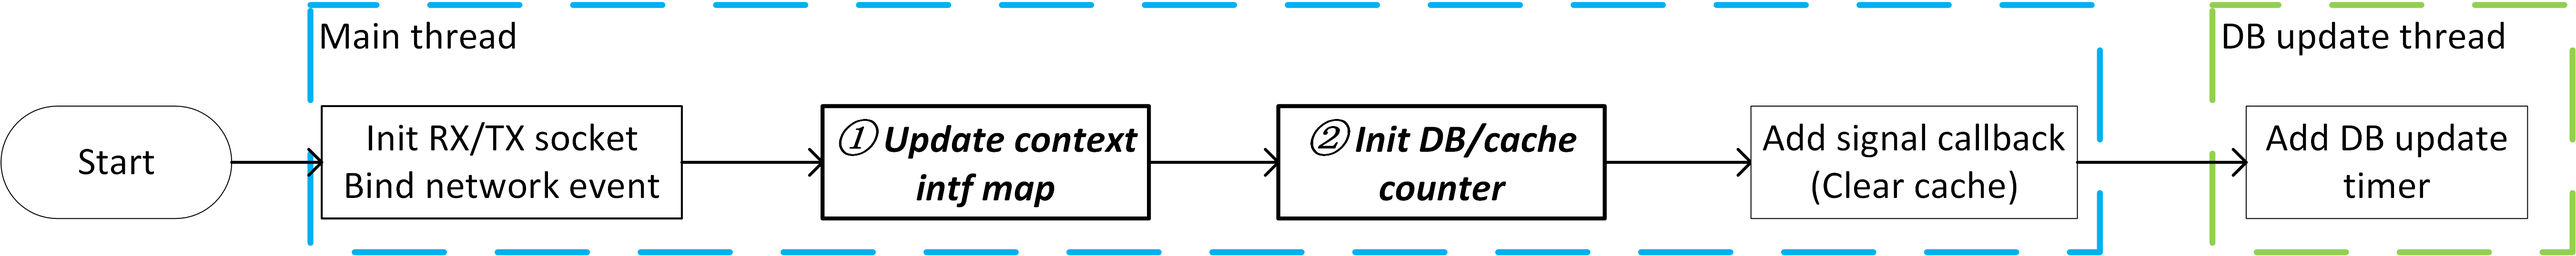
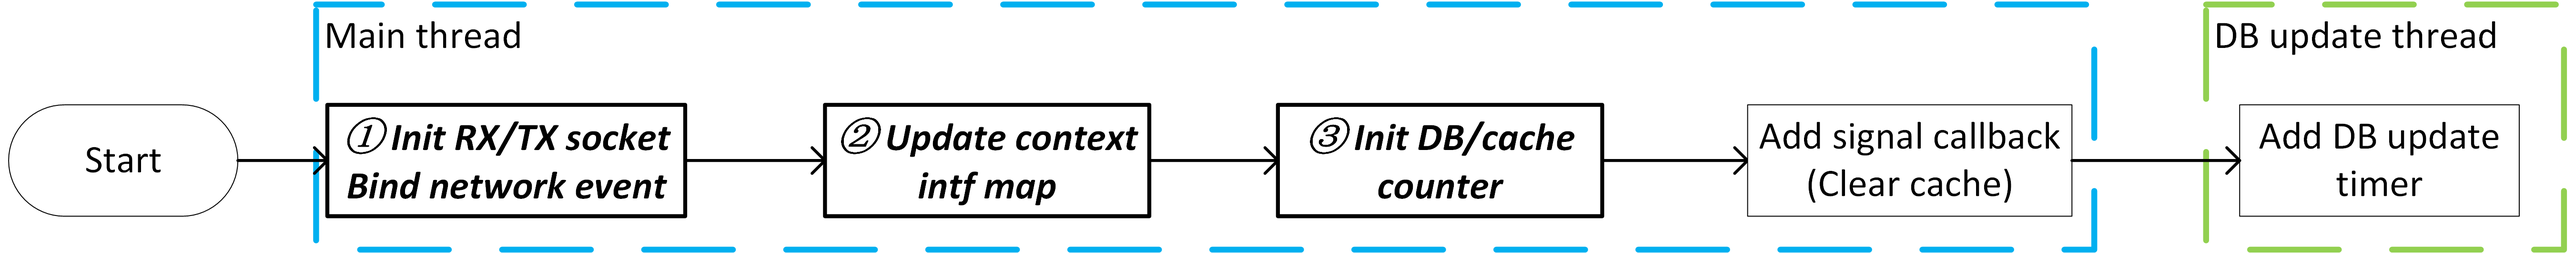
[dhcp] Update DHCP per-interface counter HLD to include DHCPv6 part (#2059)

diff --git a/doc/dhcp_relay/DHCP-per-interface-counter.md b/doc/dhcp_relay/DHCP-per-interface-counter.md
@@ -1,4 +1,4 @@
-# DHCPv4 Relay Per-Interface Counter
+# DHCP Relay Per-Interface Counter
 # High Level Design Document
 
 # Revision
@@ -6,15 +6,16 @@
 | Rev |     Date    |       Author       | Change Description                  |
 |:---:|:-----------:|:-------------------|:-----------------------------------|
 | 1.0 |  05/29/2023 | Jie Cai       | Initial version                     |
-| 1.1 |  11/01/2024 | Yaqiang Zhu, <br> Jing Kan       | Revise                 |
+| 1.1 |  11/01/2024 | Yaqiang Zhu, <br> Jing Kan       | Revise, add DHCPv4 per-interface counter |
+| 1.2 |  08/19/2025 | Yaqiang Zhu, <br> Jing Kan       | Add DHCPv6 per-interface counter |
 
 # About this Manual
 
-This document describes the design details of DHCPv4 Relay per-interface counter feature. It provides capability to count DHCPv4 packets based on packets type and ingress / egress interface.
+This document describes the design details of DHCPv4 / DHCPv6 Relay per-interface counter feature. It provides capability to count DHCPv4 / DHCPv6 packets based on packets type and ingress / egress interface.
 
 # Scope
 
-This document describes the high level design details about how **DHCPv4 Relay per-interface counter** works.
+This document describes the high level design details about how **DHCP Relay per-interface counter** works.
 
 # Definitions/Abbreviations
 
@@ -23,12 +24,15 @@ This document describes the high level design details about how **DHCPv4 Relay p
 | Abbreviation             | Description                        |
 |--------------------------|----------------------------------|
 | DHCP                      | Protocol to automatically assign IP address and other communication information |
+| LLA | Link Local Address |
+| GUA | Global Unique Address |
 
 ### Definitions
 
 | Definition             | Description                        |
 |--------------------------|----------------------------------|
 | dhcpmon                      | DHCPv4 monitor process |
+| dhcp6relay  | DHCPv6 relay process |
 
 # Overview
 
@@ -36,18 +40,22 @@ This document describes the high level design details about how **DHCPv4 Relay p
 
 Currently, DHCPv4 counter in dhcpmon mainly focus on Vlan / PortChannel interface packet data and it store count data in process memory. Also dhcpmon only reports issue in syslog for DHCPv4 packets relayed disparity. It has below disadvantages:
 1. The counting granularity is Vlan/PortChannel, the data for physical interface is missing.
-2. There is no API for User to actively query packets count. When issue like DHCP client cannot get ip happens, we need to do some packets capture and analyze to fingure out whether the packets received in switch and whether the packets have been relayed.
+2. There is no API for User to actively query packets count. When issue like DHCP client cannot get ip happens, we need to do some packets capture and analyze to figure out whether the packets received in switch and whether the packets have been relayed.
+
+And DHCPv6 counter is embedded in dhcp6relay. It has below shortages:
+1. Combining relay functionality and counter in one process increases risk of failure, reduces performance, and makes the system harder to maintain and scale.
+2. The counting granularity is Vlan/PortChannel, the data for physical interface is missing.
 
 ## Functional Requirements
 
-1. Count ingress and egress DHCPv4 packets based on interface and store it in COUNTERS_DB.
+1. Count ingress and egress DHCPv4 / DHCPv6 packets based on interface and store it in COUNTERS_DB.
 2. SONiC CLI to show / clear counter.
 
 # Design
 
 ## Design Overview
 
-To address issue 1, we propose below design, it could be divided into 4 parts: `Init`, `Per-interface counting`, `Persist` and `clear counter`.
+To count packets based on physical interface, we propose below design, it could be divided into 4 parts: `Init`, `Per-interface counting`, `Persist` and `clear counter`.
 
 ### Init
 
@@ -55,9 +63,14 @@ Below picture shows initialization for dhcpmon.
 
 <div align="center"> <img src=images/init_multi_thread.png width=700 /> </div>
 
-In this stage, dhcpmon would do some preparations, there are 2 points need to be highlightled:
+In this stage, dhcpmon would do some preparations, there are 3 points need to be highlighted:
+1. Initialize and bind socket. We will create 2 sockets for DHCPv4 and 2 sockets for DHCPv6:
+    - DHCPv4 RX: socket with `tcpdump -dd "inbound and udp and (port 67 or port 68)"`
+    - DHCPv4 TX: socket with `tcpdump -dd "outbound and udp and (port 67 or port 68)"`
+    - DHCPv6 RX: socket with `tcpdump -dd "inbound and ip6 and (udp port 547 or udp port 546)"`
+    - DHCPv6 TX: socket with `tcpdump -dd "outbound and ip6 and (udp port 547 or udp port 546)"`
 
-1. Update context interface map
+2. Update context interface map
      - Socket interface: We use socket to capture packets then count, socket interface is the interface for receiving or sending packets in socket.
      - Context interface: downlink, uplink intfs specified in dhcpmon parameters. It can be used to filter the socket interfaces that dhcpmon is interested in.
      - Take below picture as example. The dhcpmon running cmd is: `/usr/sbin/dhcpmon -id Vlan1000 -iu PortChannel1 -iu Ethernet42`. Hence the downlink context interface is `Vlan1000`, uplink context interfaces are `PortChannel1` and `Ethernet42`.
@@ -66,7 +79,7 @@ In this stage, dhcpmon would do some preparations, there are 2 points need to be
         <div align="center"> <img src=images/context_socket.png width=550 /> </div>
 
        - Hence the context interface map would be like below
-         ```JSON
+         ```
          {
           "Vlan1000": "Vlan1000",   // Downlink
           "Ethernet1": "Vlan1000",  // Downlink
@@ -80,8 +93,8 @@ In this stage, dhcpmon would do some preparations, there are 2 points need to be
          }
          ```
 
-2. Init DB/check dounter
-dhcpmon would create counter for corresponding interfaces in process memory and COUNTERS_DB and set them to be 0.
+3. Init DB/check counter
+    - dhcpmon would create counter for corresponding interfaces in process memory and COUNTERS_DB and set them to be 0.
 
 With above structure, packets processing and all writing actions to cache counter in process memory would be done in **main thread**, and all writing actions to COUNTERS_DB would be done in **DB update thread**.
 
@@ -89,7 +102,7 @@ With above structure, packets processing and all writing actions to cache counte
 
 <div align="center"> <img src=images/per_intf_counting.png width=620 /> </div>
 
-* From socket, we can fingure out which interface does the packet came from.
+* From socket, we can figure out which interface does the packet came from.
 * Context interface name could be obtained by querying context interface map.
 * Then cache counter for corresponding socket interface and context interface would increase **immediately**.
 
@@ -97,11 +110,11 @@ With above structure, packets processing and all writing actions to cache counte
 
 <div align="center"> <img src=images/persist_multi_thread.png width=440 /> </div>
 
-DB update timer would be invoked periodically (**every 20s**) in another thread which is different with main thread. It would sync **all data** from cache couonter to COUNTERS_DB.
+DB update timer would be invoked periodically (**every 20s**) in another thread which is different with main thread. It would sync **all data** from cache counter to COUNTERS_DB.
 
 ### Clear Counter (Main thread)
 
-<div align="center"> <img src=images/clear_counter.png width=500 /> </div>
+<div align="center"> <img src=images/clear_counter.png width=700 /> </div>
 
 When user invokes SONiC Cli to clear counter, it would directly clear corresponding data in COUNTERS_DB, then a signal to clear cache counter would be sent to dhcpmon process.
 
@@ -109,8 +122,19 @@ After receiving signal to clear cache, dhcpmon process would sync counter data f
 
 ## Counter Logic
 
-### Overview
+### Dual-ToR Specified
 
+In Dual-ToR there are some behaviors different with single ToR:
+1. Packets come from standby interfaces should be dropped.
+<div align="center"> <img src=images/ingress_drop.png width=480 /> </div>
+
+2. For DHCPv4
+    - In single ToR, the gateway is Vlan ip, but in Dual-ToR, it's device's Loopback ip.
+3. For DHCPv6
+    - In single ToR, packets are sent to server via Vlan GUA socket. But in Dual ToR, packets are sent to server via Loopback socket.
+    - Option 18 would be added in packets sent by Dual ToR or received from server to DualToR, which includes Vlan's LLA.
+
+### DHCPv4
 dhcpmon would mainly focus on comparing below 3 fields in packet when counting packets. Point 1 and point 2 is used for counting context interface, **we only count client-sent packets which come from downlink Vlan and server-sent packets which come from uplink interfaces**. And point 3 is used to get packet type.
 1. `Option 53` in **DHCPv4 header**
 2. `Destination ip Address` in **IP header**
@@ -118,7 +142,7 @@ dhcpmon would mainly focus on comparing below 3 fields in packet when counting p
 
 The point 1 is used to get packet type. Point 2 and point 3 are used for counting interface, **we only count when below 2 conditions are all matched**
 1. client-sent packets which come from downlink Vlan or server-sent packets which come from uplink interfaces.
-2. If packets are relayed to DHCP server or received from DHCP server, the gateway ip configred in DHCP header should match gateway in device.
+2. If packets are relayed to DHCP server or received from DHCP server, the gateway ip configured in DHCP header should match gateway in device.
 
 Below pictures are samples for expected counter increasing for both directions.
 
@@ -134,18 +158,58 @@ Counter for interface should be increased in below scenarios, and they can be co
 | RX packet | **A**: If interface is downlink and \[destination ip in ip header is broadcast ip or gateway ip\] and gateway in dhcp header is zero | **B**: If dst ip in ip header equals to gateway and ingress interface is uplink and gateway in dhcp header equals to gateway ip|
 | TX packet | **C**: If gateway ip in dhcp header equals to gateway ip and interface is uplink | **D**: If interface is downlink and gateway in dhcp header equals to gateway ip|
 
-### Dual-ToR Specified
+#### DHCPv6
 
-In Dual-ToR there are some behaviors different with single ToR:
-1. In above counting logic, we would compare `gateway` in DHCPv4 packets. In single ToR, the gateway is Vlan ip, but in Dual-ToR, it's device's Loopback ip.
-2. In Dual-ToR, there are cacl rules to drop **ingress** DHCPv4 packets from **standby interfaces**([caclmgrd: support packet mark in DHCP chain #9131](https://github.com/sonic-net/sonic-buildimage/pull/9131)). It's shown in below picture, dhcpmon socket would capture the packets before droping, but dhcpv4 relay process cannot. Hence DHCPv4 packets come from standby interfaces wouldn't be relayed, we shouldn't count them in dhcpmon too.
+The counting workflow is similar with DHCPv4. dhcpmon would use pcapplusplus to parse DHCPv6 header and mainly focus on `Message-type` field in DHCPv6 header. It indicates the type of DHCPv6 packets.
 
-<div align="center"> <img src=images/ingress_drop.png width=480 /> </div>
+Except valid types, We add two another types for invalid packets: `Unknown` and `Malformed`
+
+| Type             | Direction                        |
+|--------------------------|----------------------------------|
+| Solicit                      | Client -> Server |
+| Request                      | Client -> Server |
+| Confirm                      | Client -> Server |
+| Renew                      | Client -> Server |
+| Rebind                      | Client -> Server |
+| Release                      | Client -> Server |
+| Decline                      | Client -> Server |
+| Information-Request                      | Client -> Server |
+| Advertise                      | Server -> Client |
+| Reply                      | Server -> Client |
+| Reconfigure                      | Server -> Client |
+| Relay-Forward                      | Relay -> Server or Relay -> Relay |
+| Relay-Reply                      | Relay -> Client or Relay -> Relay |
+| Unknown                      | * |
+| Malformed                      | * |
+
+In some scenarios, packets shouldn't be relayed and should be ignored by counter.
+- Common: we have below common validation for all packets, packets match any of below conditions shouldn't be counted.
+  1. From invalid Physical interface or Context interface.
+  2. Packets structure invalid (Cannot be parsed / option with incorrect length or only have length), packets would be dropped and `Malformed` counter would be increased.
+  3. There is no next-header in the ext_header of IPv6 that is UDP.
+  4. No any valid DHCPv6 type, packets would be dropped and `Unknown` counter would be increased.
+  5. Invalid DHCPv6 Option ID (> 147), packets would be dropped and `Malformed` counter would be increased. Refer http://www.iana.org/assignments/dhcpv6-parameters/dhcpv6-parameters.xhtml.
+- Client-sent packets: For packets sent by client and match any of below conditions, dhcpmon wouldn't count them.
+  1. From standby interface in DualToR.
+  2. For RELAY_FORW packets, hop_count in DHCPv6 relay header >= 8 (Hop limit defined in RFC8415).
+- Packets sent to server: for packets sent to server and match any of below conditions, dhcpmon wouldn't count them.
+  1. Src IP is not Vlan GUA in single ToR or not Loopback IPv6 address in DualToR.
+  2. Link address in DHCPv6 header is not Vlan LLA (Option 9 is non Relay-forw packet) nor :: (Option 9 is Relay-forw packet)
+- Server-sent packets: for packets sent by server and match any of below conditions, dhcpmon wouldn't count them.
+  1. For DualToR
+      - Cannot map Option 18 to Vlan or cannot map Link address in relay header to Vlan in non-Option 18 scenario.
+      - Dst ip is not Lo ipv6 address.
+  2. For single ToR
+      - Dst ip is not Vlan ipv6 GUA.
+  3. Common check
+      - Not option 9 in option lists.
+- Packet sent to client: for packets sent to client and match any of below conditions, dhcpmon wouldn't count them.
+  1. Src ip is no LLA or GUA of VLAN.
 
 ## Counter Reset
 
 * Container restart
-  * We would add clear all counter data logic in startup script `start.sh` inside dhcp_relay container. Then When dhcp_relay containter restarting, all counter data would be cleared.
+  * We would add clear all counter data logic in startup script `start.sh` inside dhcp_relay container. Then When dhcp_relay container restarting, all counter data would be cleared.
 * Process restart
   * One dhcpmon process would only listen on one downlink Vlan interface, hence dhcpmon process restart will initialize (counter set to zero) for interface in below list:
     * Downlink / Uplink context interfaces given by startup parameter.
@@ -153,11 +217,11 @@ In Dual-ToR there are some behaviors different with single ToR:
     * Related PortChannel member interfaces from CONFIG_DB table `PORTCHANNEL_MEMBER|PortChannelxxx`.
 * Vlan add/del
   * For now, after vlan adding or deleting, it requires dhcp_relay container be restarted to take effect. Vlan del Cli would automatically restart dhcp_relay container, other scenarios need manually restart. Then it could be referred to above `container restart` part
-* Vlan / PortChannel member change 
+* Vlan / PortChannel member change
   * Member add: It's expected to add entry and set counter to zero for member interface.
   * Member del: It's expected to delete related counter entry.
   * **Note: This requires db change subscription support. In early stage, we will mainly focus on key functionality. This feature maybe be supported in future.**
-* PortChannel change 
+* PortChannel change
   * It's expected to add entry and set counter to zero for adding portchannel and delete related counter entry for deleting portchannel.
   * **Note: This requires db change subscription support. In early stage, we will mainly focus on key functionality. This feature maybe be supported in future.**
 
@@ -165,7 +229,7 @@ In Dual-ToR there are some behaviors different with single ToR:
 
 ### Counters DB
 
-Following table changes would be added in Counters DB, including **DHCPV4_COUNTER_TABLE** table.
+Following table changes would be added in Counters DB, including **DHCPV4_COUNTER_TABLE**, **DHCPV6_COUNTER_TABLE** table.
 
 ```
 {
@@ -178,11 +242,21 @@ Following table changes would be added in Counters DB, including **DHCPV4_COUNTE
       'RX': '{"Ack":"0","Decline":"0","Discover":"1","Inform":"0","Nak":"0","Offer":"0","Release":"0","Request":"0","Unknown":"0"}',
       'TX': '{"Ack":"0","Decline":"0","Discover":"0","Inform":"0","Nak":"0","Offer":"0","Release":"0","Request":"0","Unknown":"0"}'
     }
+  },
+  'DHCPV6_COUNTER_TABLE': {
+    'Vlan1000': {
+      'RX': '{"Unknown":"0","Solicit":"1","Advertise":"0","Request":"0","Confirm":"0","Renew":"0","Rebind":"0","Reply":"0","Release":"0","Decline":"0","Reconfigure":"0","Information-Request":"0","Relay-Forward":"0","Relay-Reply":"0","Malformed":"0"}',
+      'TX': '{"Unknown":"0","Solicit":"0","Advertise":"0","Request":"0","Confirm":"0","Renew":"0","Rebind":"0","Reply":"0","Release":"0","Decline":"0","Reconfigure":"0","Information-Request":"0","Relay-Forward":"0","Relay-Reply":"0","Malformed":"0"}'
+    },
+    'Vlan1000:Ethernet4': {
+      'RX': '{"Unknown":"0","Solicit":"1","Advertise":"0","Request":"0","Confirm":"0","Renew":"0","Rebind":"0","Reply":"0","Release":"0","Decline":"0","Reconfigure":"0","Information-Request":"0","Relay-Forward":"0","Relay-Reply":"0","Malformed":"0"}',
+      'TX': '{"Unknown":"0","Solicit":"0","Advertise":"0","Request":"0","Confirm":"0","Renew":"0","Rebind":"0","Reply":"0","Release":"0","Decline":"0","Reconfigure":"0","Information-Request":"0","Relay-Forward":"0","Relay-Reply":"0","Malformed":"0"}'
+    }
   }
 }
 ```
 
-To be noticed that key of uplink interfaces would be added with vlan prefix. It's for multi-vlans scenario to distingush shared uplink interfaces between different Vlans, below is a sample.
+To be noticed that key of uplink interfaces would be added with vlan prefix. It's for multi-vlans scenario to distinguish shared uplink interfaces between different Vlans, below is a sample.
 
 <div align="center"> <img src=images/db_change.png width=750 /> </div>
 
@@ -202,7 +276,7 @@ This command is used to show dhcp_relay counter.
         dir: Specify egress or ingress
         type: Specify DHCP packet type
         json: Show output with JSON format
-    
+
     Note: At least one of dir and type must be specified
     ```
 
@@ -282,6 +356,66 @@ This command is used to show dhcp_relay counter.
     }
     ```
 
+**show dhcp_relay ipv6 counters**
+
+This command is used to show dhcp_relay counter.
+
+- Usage
+    ```
+    show dhcp_relay ipv6 counters [--dir (TX|RX)] [--type <type>] <vlan_interface>
+
+    Options:
+        dir: Specify egress or ingress
+        type: Specify DHCP packet type
+
+    Note: At least one of dir and type must be specified
+    ```
+
+- Example
+    ```
+    show dhcp_relay ipv6 counters Vlan1000 --dir RX
+    Packet type Abbr: Un - Unknown, Sol - Solicit, Adv - Advertise,
+                      Req - Request, Con - Confirm, Ren - Renew,
+                      Reb - Rebind, Rep - Reply, Rel - Release,
+                      Dec - Decline, Inf-Req - Information-Request,
+                      Rec - Reconfigure, Relay-Forw - Relay-forward,
+                      Relay-Rep - Relay-Reply, Mal - Malformed
+    +---------------+-----------+-----+-----+-----+-----+-----+-----+-----+-----+-----+-----+-----+-----+---------+------------+-----------+
+    | Vlan1000 (RX) | Intf Type | Un  | Sol | Adv | Req | Con | Ren | Reb | Rep | Rel | Dec | Rec | Mal | Inf-Req | Relay-Forw | Relay-Rep |
+    ----------------+-----------+-----+-----+-----+-----+-----+-----+-----+-----+-----+-----+-----+-----+---------+------------+-----------+
+    | Ethernet1     | Downlink  | 0   | 2   | 0   | 2   | 0   | 0   | 0   | 0   | 0   | 0   | 0   | 0   | 0       | 0          | 0         |
+    | Ethernet2     | Downlink  | 0   | 2   | 0   | 2   | 0   | 0   | 0   | 0   | 0   | 0   | 0   | 0   | 0       | 0          | 0         |
+    | Ethernet46    | Uplink    | 0   | 0   | 2   | 0   | 2   | 0   | 0   | 0   | 0   | 0   | 0   | 0   | 0       | 0          | 0         |
+    | Ethernet47    | Uplink    | 0   | 0   | 2   | 0   | 2   | 0   | 0   | 0   | 0   | 0   | 0   | 0   | 0       | 0          | 0         |
+    | PortChannel1  | Uplink    | 0   | 0   | 2   | 0   | 2   | 0   | 0   | 0   | 0   | 0   | 0   | 0   | 0       | 0          | 0         |
+    | PortChannel2  | Uplink    | 0   | 0   | 2   | 0   | 2   | 0   | 0   | 0   | 0   | 0   | 0   | 0   | 0       | 0          | 0         |
+    +---------------+-----------+-----+-----+-----+-----+-----+-----+-----+-----+-----+-----+-----+-----+---------+------------+-----------+
+
+    show dhcp_relay ipv6 counters Vlan1000 --type Solicit
+    +-------------------+-----------+----+----+
+    |Vlan1000 (Solicit) | Intf Type | TX | RX |
+    +-------------------+-----------+----+----+
+    |Ethernet1          | Downlink  | 0  | 2  |
+    |Ethernet2          | Downlink  | 0  | 0  |
+    |Ethernet46         | Uplink    | 2  | 0  |
+    |Ethernet47         | Uplink    | 0  | 0  |
+    |PortChannel1       | Uplink    | 2  | 0  |
+    |PortChannel2       | Uplink    | 0  | 0  |
+    +--------------------+-----------+----+----+
+
+    show dhcp_relay ipv6 counters Vlan1000 --type Solicit --dir TX
+    +-------------------+-----------+----+
+    |Vlan1000 (Solicit) | Intf Type | TX |
+    +-------------------+-----------+----+
+    |Ethernet1          | Downlink  | 0  |
+    |Ethernet2          | Downlink  | 0  |
+    |Ethernet46         | Uplink    | 2  |
+    |Ethernet47         | Uplink    | 0  |
+    |PortChannel1       | Uplink    | 2  |
+    |PortChannel2       | Uplink    | 0  |
+    +--------------------+-----------+----+
+    ```
+
 ## Clear Cli
 
 **sonic-clear dhcp_relay ipv4 counter**
@@ -300,9 +434,25 @@ This command is used to clear DHCPv4 counter
     sonic-clear dhcp_relay ipv4 counter Vlan1000
     ```
 
+**sonic-clear dhcp_relay ipv6 counters**
+
+This command is used to clear DHCPv6 counters
+
+- Usage
+    ```
+    sonic-clear dhcp_relay ipv6 counters [--dir (TX|RX)] [--type <type>] [<vlan_interface>]
+
+    Notice: dir / type / vlan_interface are all no-required parameters
+    ```
+
+- Example
+    ```
+    sonic-clear dhcp_relay ipv6 counters Vlan1000 --dir RX
+    ```
+
 # Test
 ## Unit Test
-- show dhcp_relay ipv4 counter [--dir (TX|RX)] [--type \<type\>] \<vlan_interface\>
+- show dhcp_relay ipv4/ipv6 counter [--dir (TX|RX)] [--type \<type\>] \<vlan_interface\>
     |Case Description|Expected res|
     |:-|:-|
     |Show without specifying direction and without specifying type|Fail to display|
@@ -310,7 +460,7 @@ This command is used to clear DHCPv4 counter
     |Show without specifying packet type and with specifying direction and with specifying Vlan interface|Display corresponding direction counter of Vlan interface|
     |Show with specifying interface with type and without specifying direction and with specifying Vlan interface|Display corresponding type of counter of specified interface|
     |Show with specifying type with specifying direction with specifying Vlan interface |Display corresponding direction and type counter of Vlan interface|
-- sonic-clear dhcp_relay ipv4 counter [--dir (TX|RX)] [\<interface\>]
+- sonic-clear dhcp_relay ipv4/ipv6 counter [--dir (TX|RX)] [\<interface\>]
     |Case Description|Expected res|
     |:-|:-|
     |clear without specifying interface and without specifying direction|Fail to clear|
@@ -319,6 +469,6 @@ This command is used to clear DHCPv4 counter
     |clear with specifying interface with specifying direction|clear corresponding direction counter of specified interface|
 
 ## sonic-mgmt
-1. Basic counter functionatility test
-2. Test to verify conter table initialization and reseting
+1. Basic counter functionality test
+2. Test to verify counter table initialization and resetting
 3. Stress test for counter
